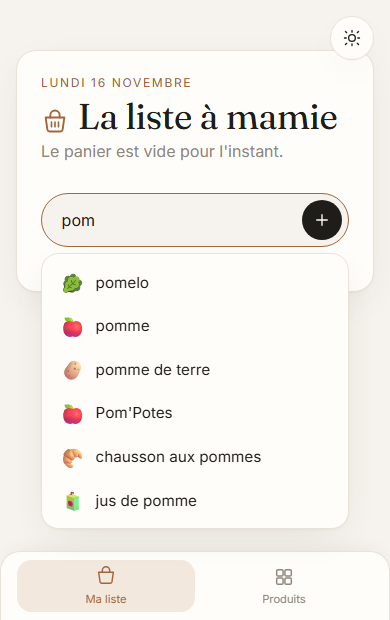
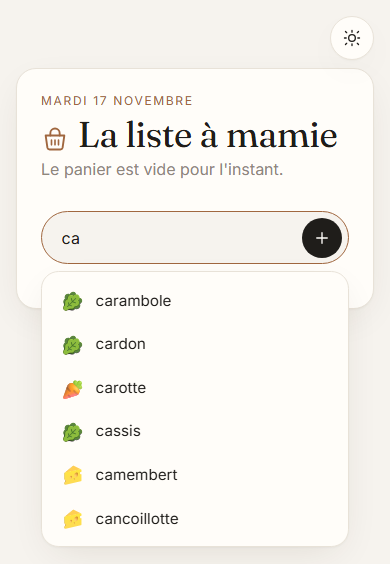
docs: refaire les captures d'écran et réorganiser le README
Plusieurs captures étaient obsolètes (texte, nombre de produits, mise en
page). Toutes les captures sont reprises via Playwright, avec cinq
nouvelles (navigation, filtres, annulation depuis la liste, bascule de
thème, vue desktop) pour couvrir les fonctionnalités qui n'étaient pas
encore illustrées. Le README passe d'une liste à puces suivie de deux
blocs d'images en vrac à des sections thématiques, chacune avec sa
capture juste en dessous du texte qui la décrit.

diff --git a/README.md b/README.md
@@ -5,74 +5,137 @@
 </p>
 
 Une application de liste de courses simple, rapide et agréable à utiliser — avec
-quantités, suggestions de produits, un catalogue de 553 produits (alimentaire et
+quantités, suggestions de produits, un catalogue de 554 produits (alimentaire et
 non-alimentaire) classés par rayon, chacun avec son emoji, et une installation en PWA.
 
 <p align="center">
-  <img src="docs/screenshots/list-light.png" width="260" alt="Liste de courses, thème clair" />
-  <img src="docs/screenshots/list-dark.png" width="260" alt="Liste de courses, thème sombre" />
-  <img src="docs/screenshots/catalog-light.png" width="260" alt="Catalogue de produits par rayon" />
+  <img src="docs/screenshots/bottom-nav.png" width="320" alt="Menu de navigation en bas d'écran entre « Ma liste » et « Produits »" />
 </p>
 
-## Fonctionnalités
+Deux pages, accessibles via le menu du bas : **Ma liste**, pour les courses en
+cours, et **Produits**, le catalogue complet à parcourir.
 
-- **Liste de courses** : ajouter un article (avec quantité), le cocher, le renommer
-  (un clic sur le nom), ajuster sa quantité, filtrer (tout / à acheter / acheté),
-  vider les articles achetés. Les articles « à acheter » sont groupés par rayon
-  (dans l'ordre du catalogue) pour suivre facilement un parcours en magasin ; les
-  articles cochés descendent automatiquement dans une section « Acheté » à part.
-- **Anti-doublon** : impossible d'ajouter deux fois le même article.
-- **Auto-complétion** : en tapant, un panneau flottant suggère des produits (avec
-  leur emoji) à partir d'un dictionnaire de 553 produits courants, classés par
-  pertinence (une correspondance exacte ou en début de nom remonte en premier).
-- **Recherche par emoji** : taper ou coller directement un emoji (🍓) suggère le
-  produit correspondant (« fraise »), aussi bien dans la liste que dans le
-  catalogue.
-- **Une icône pour chaque article** : chaque produit affiche un emoji qui lui est
-  propre (🥕 pour « carotte », 🧀 pour « fromage »…) ; à défaut d'icône spécifique,
-  l'icône du rayon s'affiche, et pour un article personnalisé absent du catalogue,
-  l'emoji caddie 🛒 sert de repli — un article n'est donc jamais sans icône.
-- **Catalogue par rayon** (page « Produits ») : tous les produits groupés par
-  catégorie — fruits & légumes, crémerie, boulangerie, viandes & poissons, épicerie
-  salée/sucrée, boissons, surgelés, hygiène & entretien, mais aussi **bébé, animaux
-  et droguerie & bricolage** pour les courses qui ne sont pas que alimentaires —
-  avec recherche en direct (classée par pertinence, comme l'auto-complétion) et
-  navigation rapide par rayon. Un produit déjà ajouté reste cliquable : un second
-  clic le retire de la liste.
-- **Annulation de suppression** : supprimer un article (depuis la liste ou en le
-  retirant du catalogue), ou vider les articles achetés, affiche un bandeau
-  « Annuler » pendant quelques secondes.
-- **PWA installable**, fonctionne hors-ligne, icône et manifeste dédiés.
-- **Mise à jour automatique** : dès qu'une nouvelle version est déployée, un
-  bandeau « Nouvelle version disponible » propose de recharger en un clic — plus
-  besoin de vider le cache manuellement pour récupérer les nouveautés.
-- **Badge sur l'icône de l'app** : une fois installée, l'icône affiche le nombre
-  d'articles restants à acheter, sans avoir besoin d'ouvrir l'app (selon le
-  support du navigateur/OS pour la Badging API).
-- **Responsive** : utilisable du petit téléphone au grand écran, menu de
-  navigation mobile en bas d'écran.
-- **Article compact sur tactile** : sur mobile, la quantité devient un badge
-  `×2` qui se déplie au tap (au lieu des boutons `−`/`+` toujours visibles), et
-  la suppression se fait en swipant l'article vers la gauche — de quoi laisser
-  la place au nom du produit même quand il est long (ex. « après-shampoing »).
-  La version desktop ne change pas (steppers et bouton supprimer toujours
-  visibles comme avant).
-- **Thème clair/sombre** : le bouton en haut à droite bascule entre thème clair et
-  thème sombre, choix mémorisé. Au tout premier lancement, l'app démarre sur le
-  thème du système.
-- Animations et transitions soignées, respectueuses de `prefers-reduced-motion`.
+## La liste de courses
+
+Les articles « à acheter » sont groupés par rayon (dans l'ordre du catalogue) pour
+suivre facilement un parcours en magasin. Un article se renomme d'un simple clic sur
+son nom, sa quantité s'ajuste avec `−`/`+`, et il descend automatiquement dans une
+section « Acheté » à part une fois coché — avec un bouton pour vider les articles
+achetés en bloc.
 
 <p align="center">
-  <img src="docs/screenshots/suggestions.png" width="260" alt="Suggestions d'auto-complétion avec emoji dans un panneau flottant" />
-  <img src="docs/screenshots/catalog-search.png" width="260" alt="Recherche dans le catalogue de produits" />
-  <img src="docs/screenshots/catalog-search-ranked.png" width="260" alt="Recherche « eau » dans le catalogue : le rayon Boissons et le produit « eau » remontent en premier" />
-  <img src="docs/screenshots/catalog-remove-undo.png" width="260" alt="Recliquer sur un produit déjà ajouté le retire de la liste, avec un bandeau « Annuler »" />
+  <img src="docs/screenshots/list-light.png" width="260" alt="Liste de courses, thème clair, avec des articles groupés par rayon et une section Acheté" />
+  <img src="docs/screenshots/list-dark.png" width="260" alt="La même liste de courses, thème sombre" />
+  <img src="docs/screenshots/list-filters.png" width="260" alt="Filtrer la liste pour n'afficher que les articles déjà achetés" />
+</p>
+
+Impossible d'ajouter deux fois le même article (anti-doublon, insensible à la
+casse). Et toute suppression — un article, ou tous les articles achetés d'un coup —
+affiche un bandeau « Annuler » pendant quelques secondes : rien n'est jamais perdu
+par erreur.
+
+<p align="center">
+  <img src="docs/screenshots/list-remove-undo.png" width="260" alt="Supprimer un article affiche un bandeau « Annuler » pendant quelques secondes" />
+</p>
+
+## Suggestions et recherche intelligente
+
+En tapant le début d'un nom, un panneau flottant suggère des produits du catalogue
+avec leur emoji, classés par pertinence : une correspondance exacte ou en début de
+nom remonte avant une simple correspondance en milieu de mot (chercher « eau » fait
+remonter « eau » avant « poireau » ou « gâteau »).
+
+<p align="center">
+  <img src="docs/screenshots/suggestions.png" width="260" alt="Panneau de suggestions d'auto-complétion avec icône et nom par ligne" />
+  <img src="docs/screenshots/emoji-search.png" width="260" alt="Taper ou coller directement un emoji (🍓) suggère le produit correspondant (fraise)" />
+</p>
+
+Taper ou coller directement un emoji suggère le produit correspondant — aussi bien
+dans la liste que dans le catalogue.
+
+## Le catalogue de produits
+
+La page « Produits » regroupe les 554 produits du catalogue par rayon — fruits &
+légumes, crémerie, boulangerie, viandes & poissons, épicerie salée/sucrée, boissons,
+surgelés, hygiène & entretien, mais aussi **bébé, animaux et droguerie &
+bricolage** pour les courses qui ne sont pas que alimentaires. Chaque produit
+s'ajoute à la liste en un clic.
+
+<p align="center">
+  <img src="docs/screenshots/catalog-light.png" width="260" alt="Catalogue de produits groupé par rayon, avec navigation rapide entre rayons" />
+  <img src="docs/screenshots/catalog-search.png" width="260" alt="Recherche « beurre » dans le catalogue" />
+</p>
+
+La recherche est classée par pertinence, comme l'auto-complétion de la liste : le
+rayon contenant la meilleure correspondance remonte en premier. Et le catalogue ne
+se limite pas à l'alimentaire.
+
+<p align="center">
+  <img src="docs/screenshots/catalog-search-ranked.png" width="260" alt="Recherche « eau » dans le catalogue : le rayon Boissons et le produit « eau » remontent en premier, avant poireau ou beaufort" />
   <img src="docs/screenshots/catalog-non-food.png" width="260" alt="Recherche « chat » : le catalogue couvre aussi le non-alimentaire (rayon Animaux)" />
-  <img src="docs/screenshots/emoji-search.png" width="260" alt="Recherche par emoji : taper 🍓 suggère « fraise »" />
-  <img src="docs/screenshots/pwa-update-toast.png" width="260" alt="Bandeau de mise à jour de la PWA avec bouton Recharger" />
-  <img src="docs/screenshots/mobile-compact-quantity.png" width="260" alt="Sur mobile, la quantité est un badge ×1 compact qui laisse la place au nom du produit" />
+</p>
+
+Un produit déjà ajouté reste cliquable : un second clic le retire de la liste, avec
+la même annulation que depuis la liste elle-même.
+
+<p align="center">
+  <img src="docs/screenshots/catalog-remove-undo.png" width="260" alt="Recliquer sur un produit déjà ajouté le retire de la liste, avec un bandeau Annuler" />
+</p>
+
+## Une icône pour chaque article
+
+Chaque produit affiche un emoji qui lui est propre (🥕 pour « carotte », 🧀 pour
+« fromage »…) ; à défaut d'icône spécifique, l'icône de son rayon s'affiche, et pour
+un article personnalisé absent du catalogue, l'emoji caddie 🛒 sert de repli — un
+article n'est donc jamais sans icône.
+
+## Pensé pour le tactile
+
+Sur mobile, deux éléments habituellement toujours visibles laissent la place au nom
+du produit, même long (ex. « après-shampoing ») : la quantité devient un badge
+compact `×2` qui se déplie au tap, et la suppression se fait en swipant l'article
+vers la gauche. La version desktop ne change pas — steppers et bouton supprimer
+restent toujours visibles.
+
+<p align="center">
+  <img src="docs/screenshots/mobile-compact-quantity.png" width="260" alt="Sur mobile, le badge de quantité ×1 se déplie au tap en boutons − et +" />
   <img src="docs/screenshots/mobile-swipe-delete.png" width="260" alt="Sur mobile, swiper un article vers la gauche révèle l'action de suppression" />
 </p>
+
+## Thème clair / sombre
+
+Un bouton flottant en haut à droite bascule entre thème clair et thème sombre, choix
+mémorisé d'une visite à l'autre. Au tout premier lancement, sans choix enregistré,
+l'app démarre sur le thème du système.
+
+<p align="center">
+  <img src="docs/screenshots/theme-toggle.png" width="260" alt="Bouton flottant pour basculer entre thème clair et thème sombre" />
+</p>
+
+## Installable et toujours à jour (PWA)
+
+L'application s'installe comme une app native et fonctionne hors-ligne. Dès qu'une
+nouvelle version est déployée, un bandeau propose de recharger en un clic — plus
+besoin de vider le cache manuellement pour récupérer les nouveautés. Une fois
+installée, l'icône de l'app affiche en badge le nombre d'articles restants à
+acheter, sans avoir besoin de l'ouvrir (selon le support du navigateur/OS pour la
+Badging API).
+
+<p align="center">
+  <img src="docs/screenshots/pwa-update-toast.png" width="320" alt="Bandeau « Nouvelle version disponible » avec bouton Recharger" />
+</p>
+
+## Responsive
+
+L'application reste utilisable et lisible du petit téléphone au grand écran, avec la
+même base de code — pas de version mobile séparée.
+
+<p align="center">
+  <img src="docs/screenshots/desktop-responsive.png" width="640" alt="L'application sur un grand écran de bureau : la liste reste confortable à lire" />
+</p>
+
+Animations et transitions soignées tout du long, respectueuses de
+`prefers-reduced-motion`.
 
 ## Stack technique
 
